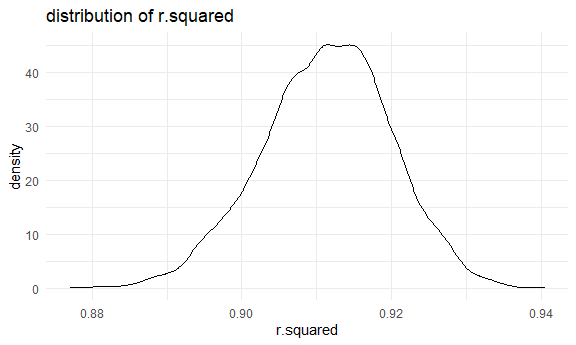
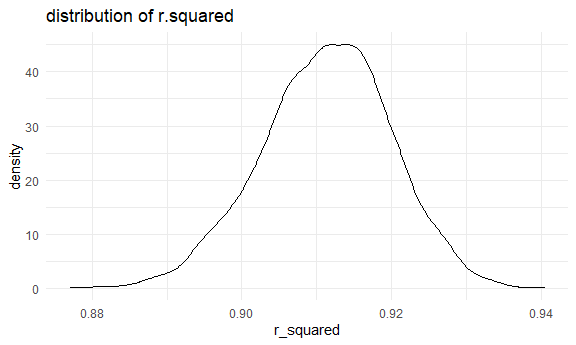
complete hw6

Changed region(s): [[0.4688, 0.9275, 0.5938, 0.9855], [0.5625, 0.1159, 0.625, 0.1449], [0.0312, 0.2029, 0.0625, 0.2319]]

diff --git a/p8105_hw6_yl4612.md b/p8105_hw6_yl4612.md
@@ -355,7 +355,15 @@ est =
     ) %>% 
   select(strap_number, tidy, glance) %>% 
   unnest(tidy, glance) %>% 
-  select(strap_number, term, estimate, r.squared)
+  select(strap_number, term, estimate, r.squared) %>%
+  pivot_wider(
+    names_from = "term",
+    values_from = "estimate"
+  ) %>% 
+  janitor::clean_names() %>% 
+  mutate(
+    log = log(intercept*tmin)
+  ) 
 ```
 
     ## Warning: unnest() has a new interface. See ?unnest for details.
@@ -368,7 +376,7 @@ bit skewed in the left.
 
 ``` r
 est %>%
-  ggplot(aes(x = r.squared)) +
+  ggplot(aes(x = r_squared)) +
   geom_density() +
   labs(
     title = "distribution of r.squared"
@@ -379,14 +387,6 @@ est %>%
 
 ``` r
 est %>%
-  pivot_wider(
-    names_from = "term",
-    values_from = "estimate"
-  ) %>% 
-  janitor::clean_names() %>% 
-  mutate(
-    log = log(intercept*tmin)
-  ) %>%
   ggplot(aes(x = log)) +
   geom_density() +
   labs(
@@ -398,3 +398,32 @@ est %>%
 <img src="p8105_hw6_yl4612_files/figure-gfm/plot-2.png" width="90%" />
 
 Provide a 95% confidence interval for r.squared and log(beta0\*beta1)
+
+``` r
+est %>%
+  summarize(
+    r2_lower = quantile(r_squared, 0.025), 
+    r2_upper = quantile(r_squared, 0.975)
+    )
+```
+
+    ## # A tibble: 1 x 2
+    ##   r2_lower r2_upper
+    ##      <dbl>    <dbl>
+    ## 1    0.894    0.927
+
+``` r
+est %>%
+  summarize(
+    log_lower = quantile(log, 0.025), 
+    log_upper = quantile(log, 0.975)
+    )
+```
+
+    ## # A tibble: 1 x 2
+    ##   log_lower log_upper
+    ##       <dbl>     <dbl>
+    ## 1      1.97      2.06
+
+The 95% confidence interval for r.squared is 0.894 to 0.927. The 95%
+confidence interval for log(beta0\*beta1) is 1.97 to 2.06.
